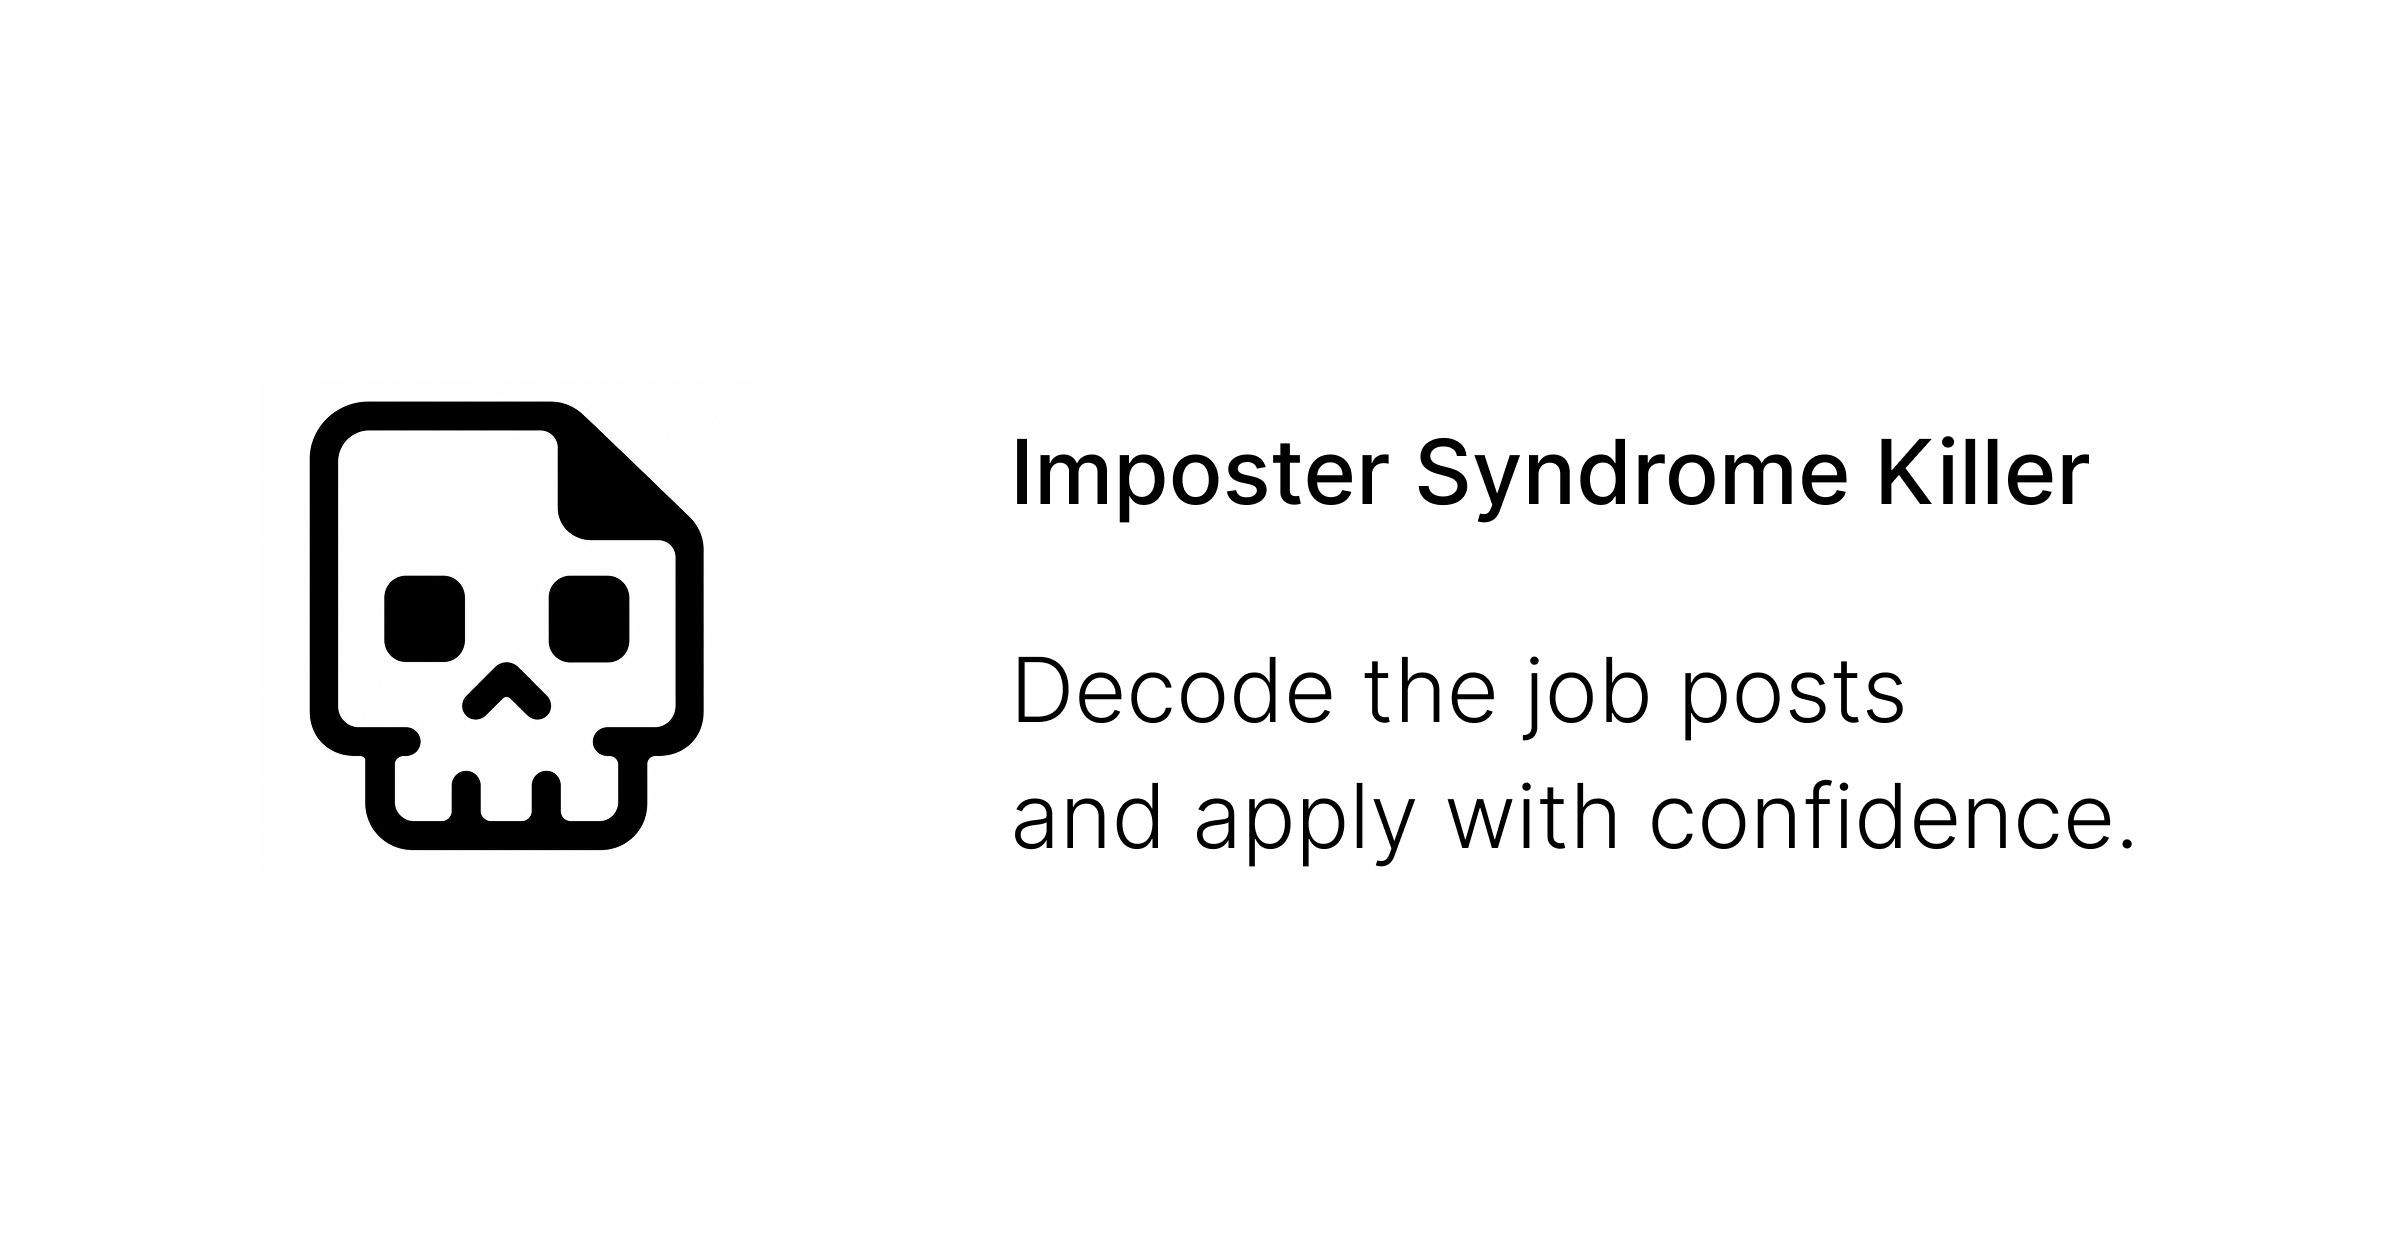
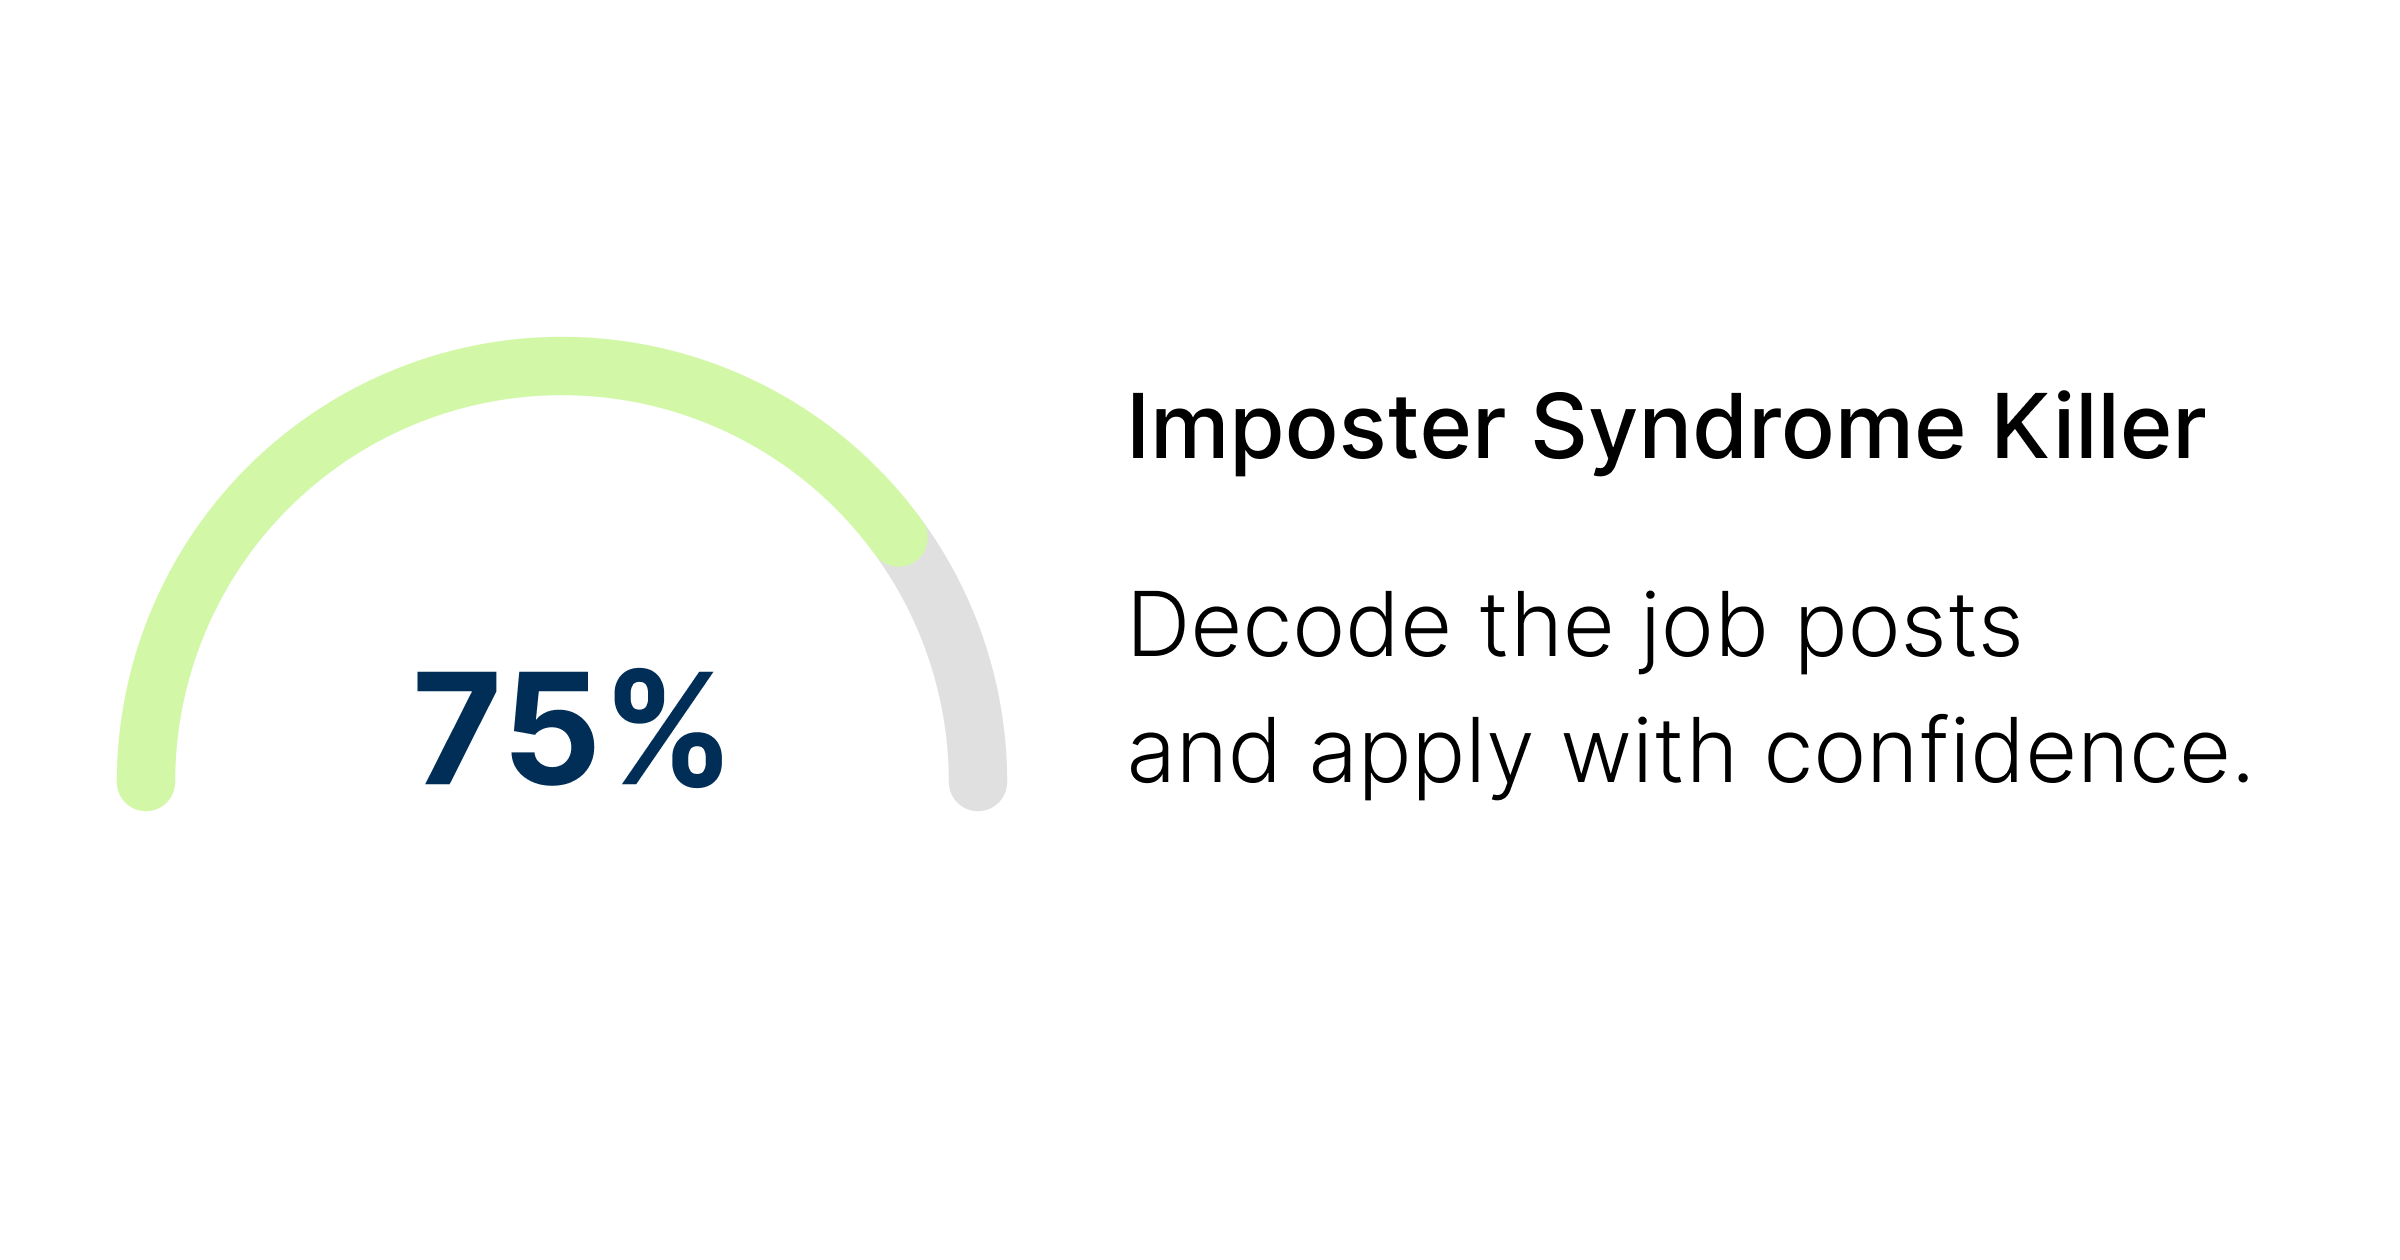
feat: README.md update

Changed region(s): [[0.0312, 0.2476, 0.9375, 0.681], [0.4062, 0.3095, 0.9375, 0.4024]]

diff --git a/src/components/Sharebutton.jsx b/src/components/Sharebutton.jsx
@@ -5,7 +5,7 @@ const Sharebutton = () => {
   const handleShare = async () => {
     const shareData = {
       title: "Imposter Syndrome Killer",
-      text: "I decoded the job description using this site!",
+      text: `Turns out I’m actually a great fit for this role. Checked the requirements with the Imposter Syndrome Killer.`,
       url: window.location.href,
     };
 

diff --git a/README.md b/README.md
@@ -1,16 +1,48 @@
-# React + Vite
+# 🚀 Imposter Syndrome Killer (ISK 1.0)
 
-This template provides a minimal setup to get React working in Vite with HMR and some ESLint rules.
+**Imposter Syndrome Killer** is a minimalist, logic-driven React application designed to strip away the intimidation of job hunting. By deconstructing complex job descriptions (JDs) into manageable technical checklists, it provides a data-backed confidence boost for applicants.
 
-Currently, two official plugins are available:
+---
 
-- [@vitejs/plugin-react](https://github.com/vitejs/vite-plugin-react/blob/main/packages/plugin-react) uses [Oxc](https://oxc.rs)
-- [@vitejs/plugin-react-swc](https://github.com/vitejs/vite-plugin-react/blob/main/packages/plugin-react-swc) uses [SWC](https://swc.rs/)
+## 🌐 Try it Live
 
-## React Compiler
+This project is deployed and ready for immediate use. You do not need to install anything locally to test the features:
 
-The React Compiler is not enabled on this template because of its impact on dev & build performances. To add it, see [this documentation](https://react.dev/learn/react-compiler/installation).
+👉 **[Live Demo on Vercel](https://imposter-syndrome-killer.vercel.app/)**
 
-## Expanding the ESLint configuration
+---
 
-If you are developing a production application, we recommend using TypeScript with type-aware lint rules enabled. Check out the [TS template](https://github.com/vitejs/vite/tree/main/packages/create-vite/template-react-ts) for information on how to integrate TypeScript and [`typescript-eslint`](https://typescript-eslint.io) in your project.
+## ✨ Features & Logic
+
+- **Honest Job Decoder:** Translates jargon-heavy JDs into a concise, one-paragraph summary.
+- **Dynamic Readiness Score:** A visual gauge (Doughnut Chart) that tracks readiness in real-time.
+- **Three-Tier Skill Assessment:** Uses a custom "Click to set" logic:
+  - **I know this:** 1.0 point
+  - **Learning:** 0.5 points
+  - **No clue:** 0 points
+- **Integrated Learning Path:** Each action item links directly to a YouTube search result for the specific task.
+- **Native Sharing:** Share your readiness status via the Web Share API.
+- **Privacy-First:** Every session is a fresh start—no data persisted, no sign-up required.
+
+---
+
+## 🛠️ Technical Implementation
+
+### **Core Stack**
+
+- **Frontend:** React (Vite)
+- **Styling:** `@stylexjs/stylex` for type-safe, maintainable CSS-in-JS.
+- **Visuals:** `Chart.js` for the dynamic readiness gauge.
+- **Interactivity:** Intersection Observer API for scroll-based triggers.
+
+---
+
+### **Project Structure Highlights**
+
+- **`Skill.jsx`**: Manages the "Click to set" state and score mapping.
+- **`HonestDecoder.jsx`**: Handles smooth height transitions for JD summaries.
+- **`Sharebutton.jsx`**: Implements native sharing with a clipboard fallback.
+
+---
+
+Developed by **Tohi Kim**